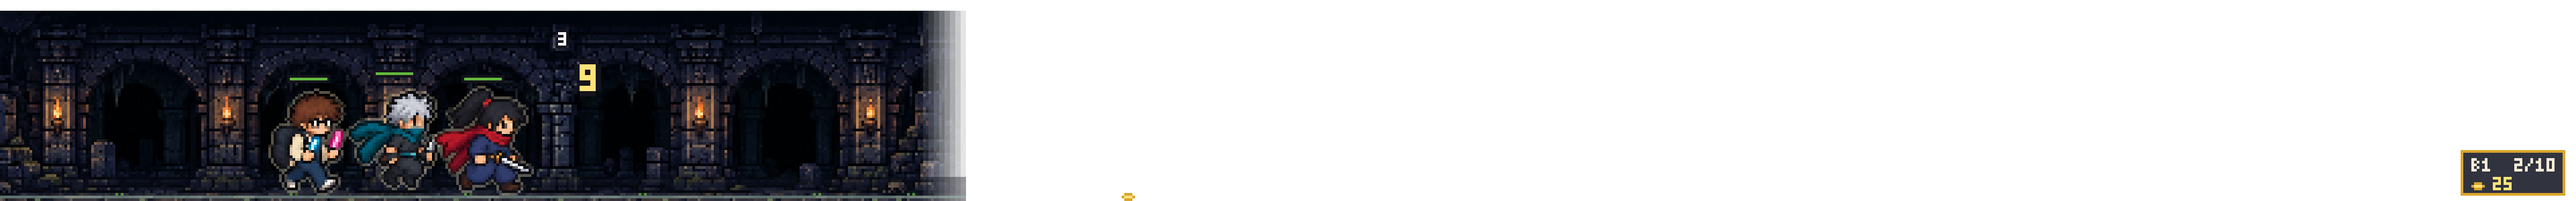
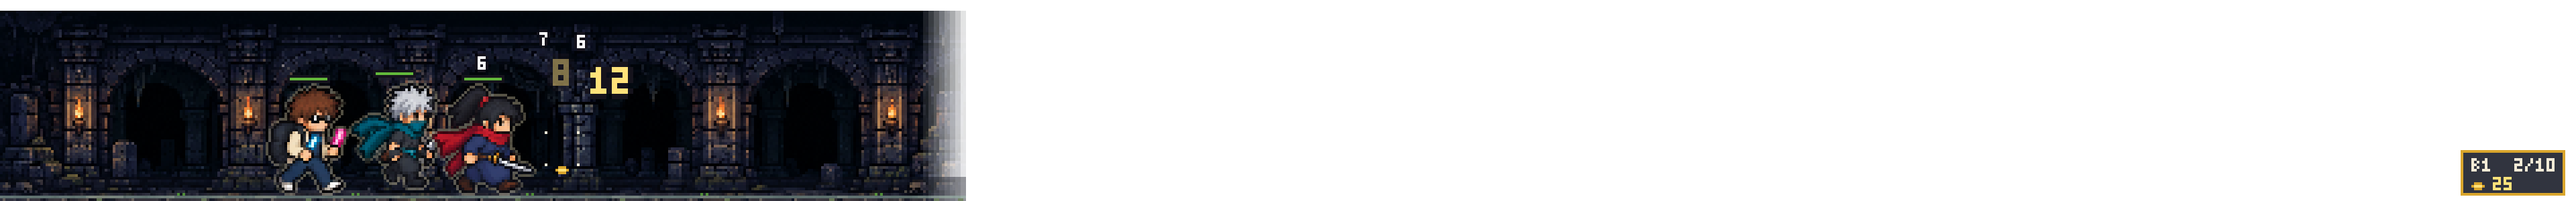
docs: record integrated approval and final v0.7.1 acceptance

Changed region(s): [[0.0, 0.12, 0.375, 1.0]]

diff --git a/docs/reviews/2026-10-30-review-resolution.md b/docs/reviews/2026-10-30-review-resolution.md
@@ -1,6 +1,6 @@
 # v0.7.1 統合レビュー指摘と対応
 
-対象製品コードは `533bc64`。この文書は初回指摘への対応表であり、最終統合承認ではない。作成時点では最終Windows実exeの30分受入と、Claude・Codexの最終総合判定が未完了。完了後の結果は末尾へ追記する。
+対象製品コードは `fd71433`。最終Windows実exeの30分受入はPASSし、[Claude最終総合判定](2026-10-30-claude-integrated-final.md) と [Codex最終統合判定](2026-10-30-codex-integrated-final.md) の両方がローカル製品範囲を総合承認した。以前の条件付き承認は最終reportで条件を満たした。レビュー担当の判定はコード・資料・実行証拠の読取であり、担当自身による実プレイやビルドの再実行とは区別する。
 
 原文は [Codex初回判定](2026-10-30-codex-integrated.md)、[Claude全体判定](2026-10-30-claude-integrated.md) に保持する。[Claude最初の実行](2026-10-30-claude-attempt.md) は利用上限による終了で、レビューも承認も成立していない。Claude全体判定は並行作業中のファイル状態に基づくため、その後の修正・検証と時点を区別する。
 
@@ -8,39 +8,54 @@
 
 | 初回指摘 | 対応・主な箇所 | 確認済みの証拠／残る確認 |
 |---|---|---|
-| Codex P1：書き出したJSONを復元できない | `shared/saveImport.ts` の共通検証・確認token、`panel/saveImport.ts` の選択と確認、preload/main IPC、`browserSaveRecovery.ts` の破損起動復旧を追加。1MiB上限、未来版保護、取消・競合・保存失敗で元データ維持、成功後は一時停止 | 製品Webの実ファイル選択で往復・取消・再読込・不正JSON・容量超過・破損起動・未来版拒否を確認。関連単体試験成功。Windowsの最終実exe IPC検査結果は待機中 |
+| Codex P1：書き出したJSONを復元できない | `shared/saveImport.ts` の共通検証・確認token、`panel/saveImport.ts` の選択と確認、preload/main IPC、`browserSaveRecovery.ts` の破損起動復旧を追加。1MiB上限、未来版保護、取消・競合・保存失敗で元データ維持、成功後は一時停止 | 製品Webの実ファイル選択で往復・取消・再読込・不正JSON・容量超過・破損起動・未来版拒否を確認。関連単体試験成功。Windows最終実exeも両phaseで実IPC往復・一時停止・分時計保持・取消/不正時の保存不変がPASS |
 | Codex P2：READMEが旧タイトル・旧言語ボタンの画像を案内 | READMEから旧画面への案内を削除 | 現行READMEの参照確認。旧画像を現行画面の証拠へ読み替えない |
-| Claude P0-1：2倍速後の配布物・実exe受入がない | 最終ソースからWindows/Webを再buildし、配布検査を実行。自己展開portableの初回・再起動を検査 | 配布検査116ファイル成功。下記hashのportable起動2回成功。最終win-unpackedの30分受入・IPC往復・終了後の子プロセス確認は継続中。P0全体の解消はまだ宣言しない |
-| Claude P1-1：速度変更後の全体回帰記録がない | 時計・描画・表示秒数・進行測定を共通速度へ統一し、型/lint・全テスト・Web/Windows buildを実施 | 53ファイル522テスト、型検査、lint成功。その後の製品変更はスマホ通知位置のCSSのみで、実表示と再buildを確認 |
-| Claude P1-2：2倍速の数字・打撃・予兆が未観測 | `strip/scene.ts`、`actionPresentation.ts` で数字580/760ms、白フラッシュ65ms、局所停止45msの実時間を保持。強調間隔160ms以上。攻撃・歩行は2倍を維持。予兆の説明を実0.6/0.9/0.7秒に整合 | 最終製品Webを新規から実時間約11分でB12まで操作。B10再訪の実戦で通常/会心数字・動作・予兆を確認。中断表示は開発用固定イベントで別確認。375pxの通知重なりを修正・再確認。Windows最終連続受入は待機中 |
+| Claude P0-1：2倍速後の配布物・実exe受入がない | 最終ソースからWindows/Webを再buildし、配布検査を実行。自己展開portableの初回・再起動を検査 | 配布検査116ファイル成功。下記hashのportable起動2回成功。最終win-unpackedの30分受入・IPC往復・再起動・障害復帰がPASSし、残存子0。P0解消を両レビューが確認 |
+| Claude P1-1：速度変更後の全体回帰記録がない | 時計・描画・表示秒数・進行測定を共通速度へ統一。分時計保存と英語ドロップ修正も含め、型/lint・全テスト・Web/Windows buildを実施 | 53ファイル536テスト、型検査、lint、Web/Windows build、配布116ファイル検査成功 |
+| Claude P1-2：2倍速の数字・打撃・予兆が未観測 | `strip/scene.ts`、`actionPresentation.ts` で数字580/760ms、白フラッシュ65ms、局所停止45msの実時間を保持。強調間隔160ms以上。攻撃・歩行は2倍を維持。予兆の説明を実0.6/0.9/0.7秒に整合 | 倍速製品Webを新規から実時間約11分でB12まで操作。B10再訪の実戦で通常/会心数字・動作・予兆を確認。中断表示は開発用固定イベントで別確認。375pxの通知重なりを修正・再確認。追加更新後も同じ保存でB30の敗北→強化・隊列変更→B31進行を実操作。Windows最終連続受入もPASS |
 | Claude P1-3：Lv上限後の継続目標が弱い | `core/progress/abyss.ts` と既存ダンジョン画面へ深淵遠征録を追加。目標B100/250/500/1000、以降1000刻み。最高クリアと最新8節目に実出撃3人のLv・配分・装備名を保存 | 旧保存は記録なしで開始、過去編成を捏造しない。重複達成・予約編成除外・破損値拒否・保存/取込の試験成功。実コアで得たB100保存を実取込し、日英・1280/375pxで表示と再読込保持を確認。人間による4時間プレイの証拠ではない |
-| Claude P1-4：0.7.1の正本記録が古い | README、HANDOFF、`docs/GAME_SPEC.md`、`docs/TECH_SPEC.md`、`docs/VALIDATION.md` に速度・復元・遠征録・検証境界を記録 | 最新HANDOFFは検証中と明記。ゲーム仕様と技術仕様を分離。最終実exe・総合判定・後片付けの確定値は検査終了後に追記する |
-| Claude P2：地面がデスクトップ全幅を覆う | `strip/scene.ts` の地面を背景と同じ戦闘域に制限 | 描画修正・build済み。Windows最終表示の証拠は連続受入結果と併せて確定する |
+| Claude P1-4：0.7.1の正本記録が古い | README、HANDOFF、`docs/GAME_SPEC.md`、`docs/TECH_SPEC.md`、`docs/VALIDATION.md` に速度・復元・遠征録・検証境界を記録 | ゲーム仕様と技術仕様を分離。最終実exe・両レビューの承認・正確な実測時刻・後片付けの留保を本書に反映 |
+| Claude P2：地面がデスクトップ全幅を覆う | `strip/scene.ts` の地面を背景と同じ戦闘域に制限 | 描画修正・build済み。最終Windows受入の表示・正常終了を確認。全DPIの検証を意味しない |
 | Claude P2：処理遅延で毎分率が過大になり得る | `core/game.ts` の `accountElapsed` へ実時間・整数端数・分締めを共通化。main/Webとも処理上限を超えた戦闘は追いつかせず、実経過だけ集計する | 10秒停止×6回で両hostのplayMs60000、毎分記録1件、実獲得額と率の一致を試験。次50msは1tickのみ。小数開発倍率・60秒以上のスリープ・オフライン半率の既存試験も成功 |
+| 追加保存レビュー：短時間再起動で途中収入が1分へ過剰合算 | `rates.elapsedMs`を唯一の保存時計とし、Game側の分時計を廃止。経過不明の旧途中額は`legacyUnmeasuredGain`へ保管し、資産・EXP・確定履歴を保持。不正値・移行時の数値超過は拒否 | 30秒×10回の保存/取込/再起動で5分5件、率＝実総獲得/5。実HTTP/SQLiteでも別client復元・DB再起動後に途中時間・収入・旧未計測額が一致。サーバーrepoのソース変更なし |
+| 追加実UI確認：英語ドロップに日本語と改suffixが混在 | `shared/locales/en-game.ts`の通知テンプレートとsuffix解析を修正。閉じ括弧まで番号として取り込まない | 特上通知はバナー・浮動ラベルとも`Rare: Good Fortune Charm Mk II`。伝説通知、日本語復帰を含めて試験 |
 | Claude P2：取込報酬の計算時点が不明 | 確認画面を開く時点で計算する仕様と、旧ファイルへの置換後に報酬を受け取る説明を追加 | 同時刻に同じ旧JSONを繰り返し復元しても資産が重複加算されない単体試験。確認待ち時間まで加算するとは説明しない |
 | Claude P2：奥義の型・役割が偏る | 個別技能・3連携・中断・回復等の現行範囲を正直に示す。今回、17人全員の必須局面を新設したとは扱わない | 初期編成の3seed測定、実プレイでの編成交代は確認済み。全680通りの3人編成比較や全員が唯一必須となる局面の保証はない |
-| Claude P2：後片付けが残る | 使用中の検証資材と、既知の削除拒否対象を区別。最終検査の終了後に担当が使用状況と残存を確認する | 下記の既知拒否分は未削除。現時点で全後片付け済みとは記録しない |
+| Claude P2：後片付けが残る | 最終検査の正常終了と残存子0を確認。既知拒否と追加の検証用data/session削除拒否を明記 | 下記の既知拒否分は未削除。現時点で全後片付け済みとは記録しない |
 
 実操作の手順・観測値・証拠の区別は [統合検証記録](2026-10-30-integrated-validation.md) を正本とする。静的レビュー、実コアの高速計測、製品Webの実操作、Windows実exeの検査は相互の代用にしない。
 
-## 配布物と未完の最終検査
+## 配布物と最終検査
 
[2 lines of base64/hex data omitted]
 
-最終30分検査は `.dev-data/packaged-acceptance/2026-10-29T17-41-26-226Z-30692/` で継続中。起動時刻は2026-10-30 02:41:26 JST。検査完了前のため、例外数・実playMs・終了コード・再起動/IPC結果・残存子プロセスについて最終合格値は本書に記載しない。速度変更前の `2026-10-29T17-08-37-379Z-3960` は約134秒で検査者が中断したもので、合格実績として流用しない。
+最終30分検査は `.dev-data/packaged-acceptance/2026-10-29T18-18-00-322Z-27496/report.json` でPASS。全体ok:true/errors:[]、初回・再起動ともexit0、rendererErrors空、残存子0、debugger閉鎖。両phaseで実JSON IPC取込の一時停止・分時計保持、取消/不正/未来版時の保存不変、合成runtime障害からcheckpointへの明示復帰を確認した。意図的な不正JSON・未来版・合成障害のstderrログは残し、全ログを無条件にerror0とは扱わない。
+
+初回はB23・757撃破・ボス2・全滅0、保存playMs1,799,550。sample間の実時間は1,782,121ms、playMs増分1,782,100ms、差は−21ms（比0.9999882）。ISO時刻を直接Date.parseした値であり、先行のPowerShell変換によるミリ秒丸めを訂正した。毎分履歴10件、途中時計59,550msが再起動後にも継続し、分締め後7,300msとなることを確認。実行本体・asarのhashはmanifestと一致した。
+
+過去の検査結果は次のとおり区別する。
+
+- `17-08-37-379Z-3960` は速度変更指示で約134秒時点に検査者が中断したもの。合格ではない。
+- `17-41-26-226Z-30692` は30分走行後の取込比較でFAIL。短期の `18-12-54-468Z-32840/report.json` のbefore/afterで、値は同じだがoptionsのキー順だけが異なると確認した。
+- 検査側をJSON文字列比較から `isDeepStrictEqual` へ修正し、`18-13-44-887Z-15536` は初回/再起動/IPC/異常復帰/終了が短期PASS。確認条件を緩めず、取込前後のrates一致も検査する。失敗reportを合格へ改変しない。
+- 短期PASSは最終buildより前のwin-unpacked検査であり、現行buildの最終実IPC往復は `18-18-00-322Z-27496` のPASS結果で確定した。
+
+Claude最終コード判定で残っていた実機条件は上記reportで充足した。非阻害P2として、30分検査は実時刻との一致を自動判定せず、samplesの時刻とplayMsを別途比較する。分履歴は仕様上10件が上限。街ではplayMsが止まり、分時計は収入0で進むため街滞在後の平均は低下し得る。街の扱いはゲーム仕様に明記済み。
 
 ## 内容と外部サービスの境界
 
-通常・修羅の各100階は、3区域・12敵・3ボスを循環する装備探索であり、100階すべてに固有の地形・敵・物語を用意したゲームではない。2倍速の実コア測定では、選択を行う初期編成の3seedが約81〜86分で通常100、約243〜258分で深淵101へ進んだ。人間の満足度、全編成の難易度、数百時間の持続性を保証する値ではない。遠征録は編成と装備探索を振り返る具体目標であり、新ダンジョンや新敵を追加したものではない。装備記録は名前のsnapshotで、当時の乱数数値すべての再現機能ではない。
+通常・修羅の各100階は、3区域・12敵・3ボスを循環する装備探索であり、100階すべてに固有の地形・敵・物語を用意したゲームではない。2倍速の実コア測定では、選択を行う初期編成の3seedが約81〜86分で通常100、約243〜258分で深淵101へ進んだ。人間の満足度、全編成の難易度、数百時間の持続性を保証する値ではない。遠征録は編成と装備探索を振り返る具体目標であり、新ダンジョンや新敵を追加したものではない。装備記録は名前のsnapshotで、当時の乱数数値すべての再現機能ではない。深淵の反復と遠征録の表示場所は最終レビューでも非阻害P2として残る。
 
-Steam登録・契約・審査、実決済、実Steamマーケット、公開、署名等の外部手続きは利用者が除外した範囲。実接続・販売開始済みとは称さない。実スマホ、クリーンPC、遠隔クラウド運用も本検査の証明対象外。スマホ幅のブラウザー確認を実スマホOS上の受入に読み替えない。
+Steam登録・契約・審査、実決済、実Steamマーケット、公開、署名等の外部手続きは利用者が除外した範囲。実接続・販売開始済みとは称さない。実スマホ、クリーンPC、遠隔クラウド運用、通知領域の実操作、別DPI、実スリープも本検査の証明対象外。スマホ幅のブラウザー確認を実スマホOS上の受入に読み替えない。
 
 ## 後片付けの留保
 
 HANDOFFに記録済みの `.font-tools`、変換元TTF2本、`.dev-data/recovery-ui-2026-10-29` は自動承認レビューによる削除拒否で未削除。過去の `out`、`.dev-data/verification`、`.dev-data/preview`、`node_modules/.vite`、指定済み旧受入データ、`release/builder-debug.yml`、`build/icon.ico` 等の拒否履歴も、別手段で迂回しない。これらを容量回収済みと数えず、TTF等の未追跡素材を製品・コミットへ混入させない。
 
-作成時点で使用中の30分検査、確認用ブラウザー・サーバー、および旧配布物・中断試験資材の最終整理は親担当の終了時確認に残す。この文書作成では削除もプロセス終了も実施していない。
+親担当により、検証用IAB全タブの閉鎖・viewport指定の解除、4177/4178/5177/8787のlistener終了を確認済み。旧 `TaskbarHyakkiko-0.7.0-portable.exe` は新版確認後に削除し、120,845,801 bytesを解放した。実HTTP/SQLite検査の専用一時DBも削除済み。上記の既知拒否分は残置し、この容量回収には含めない。最終30分検査も終了し、観測子プロセスとTaskbarHyakkiko.exeの残存がないことを確認済み。この文書担当自身は削除もプロセス終了も実施していない。
 
-## 最終結果の追記欄
+今回追加で、最終native検査のdata/sessionと `.dev-data/portable-launch-0.7.1-final/session`、計15,620,511 bytesの削除が自動承認レビューに `blocked by policy` として拒否された。再試行せず未削除として残し、この分の容量回収は0。その他の原本save・log・reportも保持する。削除拒否は製品の合格と区別し、後片付けをすべて完了したとは称さない。
 
-未完。最終実exe report、対象hashとの対応、Claude/Codex最終判定、終了後のプロセスと許可範囲の後片付けを確認して追記する。
+## 最終結果
+
+`fd71433` と現行SHA256のローカル製品範囲は、最終実exe受入PASSおよびClaude・Codex両方の総合承認を得た。承認を妨げる既知の重大欠陥は残っていない。上記の外部除外範囲・非阻害P2・削除拒否による残置は、この承認によって解消済みへ読み替えない。

diff --git a/docs/VALIDATION.md b/docs/VALIDATION.md
@@ -1,20 +1,33 @@
 # ローカル検証記録
 
-## 0.7.1（2026-10-30、最終連続検査中）
+## 0.7.1（2026-10-30、最終実機検査PASS）
 
-製品コード `533bc64`。旧版の結果を今回の合格へ流用しない。[指摘対応](reviews/2026-10-30-review-resolution.md) と [実操作・測定記録](reviews/2026-10-30-integrated-validation.md) を参照。
+製品コード `fd71433`。[指摘対応](reviews/2026-10-30-review-resolution.md) と [実操作・測定記録](reviews/2026-10-30-integrated-validation.md) を参照。旧版や修正前の結果を今回の合格へ流用しない。
 
-- 型・lint・53ファイル522テスト成功。最後の製品差分はスマホ通知位置のCSSで、実表示とWindows/Web再buildを確認。配布116ファイル検査成功。
-- 共通速度2倍、実60秒で1200tick・playMs60000・毎分記録1件。数字580/760msの実可読時間を保つ。処理遅延の実経過を統計へ含め、スリープ放置報酬を二重化しない。
-- 製品Web新規実操作で約11分B12/ボス1/全滅0。実拾得装備の比較と装着、B10再訪戦闘、控えから力士への交代後の実戦成長を確認。
-- JSON復元は日英の確認・取消・正常復元・再読込、不正/容量超過/未来版拒否、破損起動復旧を製品Webの実ファイル選択で確認。深淵遠征録を日英375/1280pxで確認。固定演出と実コア由来の深淵保存は自然プレイと区別する。
[1 lines of base64/hex data omitted]
+| 対象 | 確認した結果 |
+|---|---|
+| 型・lint・単体 | 53ファイル536テスト、typecheck/lint成功。2倍速、分途中の保存時計、旧未計測収入の明示移行、取込、描画、翻訳を含む |
+| build・配布 | Windows/Web build成功、release-check116ファイルPASS。未署名。開発用QAは製品に含めない |
+| 実時間集計 | 両host実60秒1200tick/playMs60000/1分履歴1件、30秒×10回の保存・再起動・取込で5分5件と実総獲得/5。分時計を保存して過大率を防ぐ |
+| 実Web操作 | 新規B1から装備比較装着、控えEXPなし/出撃成長、B10再訪、B30の敗北後の道場・隊列変更でB31へ。日英のJSON確認/取消/復元/不正・容量超過・未来版拒否、破損起動復旧、深淵遠征録375/1280pxを確認 |
+| 保存API | 実HTTP/SQLiteで部分時間・収入・旧未計測集計を別clientへ復元し、DB再起動後も一致。競合/未来版/別account分離PASS、専用DB削除済み。serverソース変更なし |
+| 自己展開portable | 最新hashで初回・再起動ともexit0、stderr空。playMs0→14950→29950、17人/v3。`.dev-data/portable-launch-0.7.1-final/report.json` |
 
-最終30分win-unpacked検査は `.dev-data/packaged-acceptance/2026-10-29T17-41-26-226Z-30692/` で実行中。Windows JSON preload/main IPC往復・取消/不正時保存不変・runtime障害後の明示復帰・再起動・終了後の子プロセスまで含む。完了後のreportで最終結果を記録する。`docs/images/play-panel.png`・`play-panel-en.png`・`play-strip.png` はこの版の実exe画面。
[1 lines of base64/hex data omitted]
 
-旧0.7.0 portableは新版の自己展開検査後に実パス・非リンク・非使用を確認して削除し、120,845,801 bytesを解放。削除後の空き454,240,628,736 bytes。既知の自動承認レビューによる削除拒否分は再試行せず未削除。使用中の検証プロセスとブラウザーは終了時に確認する。
+初回はB23・757撃破・ボス2・全滅0、playMs1,799,550。最初から最後のsample間で実1,782,121ms、playMs増分1,782,100ms（比0.9999882、非同期取得の差−21ms）。JSONのISO時刻を直接Date.parseして算出した。先行のPowerShell日付→文字列変換ではミリ秒を落としていたため、精密値へ訂正した。毎分履歴は仕様上の上限10件で、30件を保持する設計ではない。初回保存の途中時計59,550msは再起動後にも継続し、街での待機を経て7,300ms・履歴10件になった。初回/再起動の両方で実JSON IPC取込の一時停止・部分時計保持、取消/不正/未来版で保存不変、合成runtime障害時の保存拒否とチェックポイントへ明示復帰がPASS。
 
-Steam・実決済・公開・署名・実スマホ・クリーンPC・遠隔クラウド運用は今回の合格範囲に含めない。
+親子合計working setは876.4→654.1MiB、private bytesは868.3→472.4MiB、観測1,782秒でCPU累積差401.2秒。共有ページの重複を含む測定であり、全PCでの性能や無期限の漏れなしを保証しない。終了後にTaskbarHyakkiko.exeが残っていないことも別途確認した。
+
+前の30分 `17-41-26-226Z-30692` は最後の取込比較でFAIL。短期 `18-12-54-468Z-32840` のbefore/afterでoptionsのキー順だけが相違と確認し、検査側をJSON文字列比較から厳密深比較へ変更した。同じ条件の短期 `18-13-44-887Z-15536` はPASS。生の失敗記録を変更せず、最新版の30分合格として扱わない。
+
+最終実機結果を読んだ [Claude最終原文](reviews/2026-10-30-claude-integrated-final.md) と [Codex最終判定](reviews/2026-10-30-codex-integrated-final.md) の両方が、`fd71433`のローカル製品範囲を総合承認。条件付き段階からの残条件を解除した。Claudeが指摘した精密時刻と確定記録の更新漏れは反映済み。両担当の静的評価・親の実操作・生の実exe証拠を区別する。
+
+旧0.7.0 portableを新配布の確認後に実パス・非リンク・非使用確認して削除し、120,845,801 bytesを解放。削除後空き454,240,628,736 bytes。IAB全タブとviewport指定、4177/4178/5177/8787 listenerを終了確認済み。既知の自動承認レビューによる削除拒否分は再試行せず未削除。最終試験自身も正常終了し、観測子プロセスが残っていない。
+
+追加で、最終native検証の`data/session`（8,382,493 bytes）と`portable-launch-0.7.1-final/session`（7,238,018 bytes）の削除も自動承認レビューに拒否された。事前に絶対パス・リンクなし・ゲームプロセス終了を確認したが、理由は`blocked by policy`のみ。合計15,620,511 bytesは未削除で、別手段で再試行しない。削除前空き454,281,629,696 bytesを回収後の数値と偽らない。
+
+Steam・実決済・公開・署名・実スマホ・クリーンPC・遠隔クラウド運用は今回の合格範囲に含めない。人間の満足度、全680編成の難易度、無期限の安定性を保証する試験ではない。
 
 ## 0.7.0（2026-10-29）
 

diff --git a/HANDOFF.md b/HANDOFF.md
@@ -1,21 +1,24 @@
 # 引き継ぎ
 
-## v0.7.1 統合承認と追加2倍速（2026-10-30、検証中）
+## v0.7.1 統合承認と追加2倍速（2026-10-30、承認済み）
 
-最新指示は「ClaudeとCodexの統合承認まで」「現在からさらにゲーム速度2倍」。この節を旧版より優先。最終統合承認はまだ未完了。
+最新指示は「ClaudeとCodexの統合承認まで」「現在からさらにゲーム速度2倍」。製品コードは `fd71433`。この節を旧版より優先。外部のSteam・実決済・公開・署名等は依頼範囲外であり、接続済みとは説明しない。
 
-03:15 JST追記：下記533bc64時点の配布hashと30分検証は追加修正前の証拠。短時間再起動で毎分率が過大になる欠陥を発見し、`rates.elapsedMs`を永続化。旧途中額は`legacyUnmeasuredGain`へ明示保管、資産・確定履歴を保持。英語の特上ドロップ文と改suffix解析も修正。追加修正後の型/lint・53ファイル536テスト・Web build、実HTTP/SQLiteで新集計fieldの別client復元とDB再起動がPASS。
+- Windows/Web/描画の共通速度を2倍に統一。数字の実可読時間を維持し、プレイ時間・毎分率・放置報酬は実時間。日英の秒数も同じ正本から生成。
+- JSON復元の実導線、確認token・保存失敗時の保護・一時停止復帰、ブラウザー破損起動の復元を追加。正常設定を保持、未来版を拒否。
+- 深淵の目標B100/250/500/1000/以降1000刻みと、実出撃3人の配分・装備名を残す遠征録を追加。旧記録を捏造しない。
+- 短時間再起動で毎分収入が過大になる実在の欠陥を修正。`rates.elapsedMs`を唯一の保存時計とし、時間不明の旧途中額は`legacyUnmeasuredGain`へ明示保管。資産・EXP・確定履歴を保持し、不正値を隠さない。
+- 英語の特上ドロップ文と改suffixの解析漏れを修正。スマホの技能通知と操作ボタンの重なり、地面の全幅表示、遅延時の実時間欠落も修正。
+- 型/lint・53ファイル536テスト、Windows/Web build、配布116ファイル検査成功。実HTTP/SQLiteで部分時間・収入の別client復元とDB再起動もPASS。サーバーrepoは変更なし。
+- Codex内IABで新規開始→装備比較装着→交代/控えEXP→B30で敗北→道場/隊列調整→B31まで実操作。日英の復元と深淵遠征録を375/1280pxでも確認。全キャラの長時間満足度や実スマホ受入とは区別する。
[1 lines of base64/hex data omitted]
+- 最終30分と再起動は `.dev-data/packaged-acceptance/2026-10-29T18-18-00-322Z-27496/report.json` でPASS。B23/757撃破/ボス2/全滅0、両phase exit0/描画例外0/残存子0。実1,782,121msに対してplayMs増分1,782,100ms（非同期取得差−21ms）。直近10分履歴、分途中59,550msの再起動継続、実IPC取込/保存不変/異常復帰/再起動/子終了を確認。
+- 実Claude CLIと独立Codex担当の両方が、`fd71433`のローカル製品範囲を最終総合承認。原文は `2026-10-30-claude-integrated-final.md` と `2026-10-30-codex-integrated-final.md`。初回や限定レビューを全体承認へ読み替えたものではない。実スマホ/クリーンPC/通知領域実操作/DPI/スリープ/遠隔運用と外部手続きはこの承認の証明対象外。
+- 旧30分run `17-41-26-226Z-30692` はimport比較でFAIL。短期再現でoptionsのキー順だけの差と確認。検査を厳密深比較へ直し、`18-13-44-887Z-15536` は全経路PASS。失敗reportは改変せず残す。
+- 検証用IAB全タブとviewport指定、4177/4178/5177/8787 listenerは終了確認済み。旧0.7.0 portableは新版確認後に削除し120,845,801 bytes解放。既知の自動承認レビュー拒否対象（.font-tools、TTF2本、旧検証資材等）は再試行せず未削除、製品/コミットから除外。
+- 最終nativeの`data/session`と`portable-launch-0.7.1-final/session`も、非使用/非リンク/範囲を確認後の削除が自動承認レビューに`blocked by policy`で拒否された。計15,620,511 bytesを残置し、別手段では再試行しない。生セーブ・ログ・report・現行配布物は保護している。
 
-旧30分run `17-41-26-226Z-30692` は最後のimport比較でFAIL。短期再現 `18-12-54-468Z-32840` で内容は一致し、optionsのプロパティ順だけが相違すると確認。検査のJSON文字列比較を意味的な厳密深比較へ変更し、`18-13-44-887Z-15536` は初回/再起動/実IPC/異常停止復帰/子終了すべてPASS。失敗を製品の合格へ読み替えない。修正後の最終dist→release-check→30分を改めて実行中。
-
-- Codex初回P1（JSON復元導線なし）を修正。共通検証・token確認・原子的保存・paused復帰、正常設定とブラウザー破損起動の両経路。実IAB往復・取消・不正/容量超過/未来版拒否・破損復旧を確認。P2のREADME旧画像参照も削除。
-- GAME_SPEED=2を共通正本にWindows/Web/描画を同期。playMs/毎分率/offlineは実時間。日英の効果時間は戦闘paramsから生成、攻撃間隔/CDは同じtick切上げで表示。旧保存時間は変換しない。
-- 新規実操作・3seed通常100→修羅100→深淵101の測定は `docs/reviews/2026-10-30-integrated-validation.md`。通常100は約81〜86分相当。静的review・実コア・実UI・実exeを区別する。
-- 最終型/lint/53ファイル522テスト成功。dist/Web/release-check116ファイル成功。native30分を `.dev-data/packaged-acceptance/2026-10-29T17-41-26-226Z-30692/` で実行中。新report完了前に旧PASSを流用しない。
-- Claude初回は利用上限、02:20JST以降の実CLI全体レビューは証拠不足と深淵の継続目標で保留。その後、深淵の目標/遠征録、数字の可読時間、地面の範囲、処理遅延時の実時間集計を修正。Codex再確認は新たな重大指摘なし、最終実機結果待ち。最終Claude再判定も未完了。
[1 lines of base64/hex data omitted]
-- `2026-10-29T17-08-37-379Z-3960` の実exe試験は速度変更指示で約134秒時点に検査者が中断。残存ゲームプロセスなし確認、合格ではない。
-- 検証用4177preview/4178破損fixture/5177固定演出とIAB tab7/8/9を使用中。終了時に片付ける。既知の削除拒否対象は再試行しない。
+詳細と初回指摘の対応は [統合検証](docs/reviews/2026-10-30-integrated-validation.md)、[対応表](docs/reviews/2026-10-30-review-resolution.md)、[VALIDATION](docs/VALIDATION.md)。以後の追加要望はこの承認済み版を基準とし、新しい差分に必要な検証を行う。
 
 ## v0.7.0 製品品質の改善（2026-10-29）
 

diff --git a/docs/reviews/2026-10-30-claude-final-code.md b/docs/reviews/2026-10-30-claude-final-code.md
@@ -1,0 +1,47 @@
+# v0.7.1（fd71433）総合再判定（読み取り専用）
+
+## 判定：条件付き承認（前回と同じ）
+今回の修正差分に、承認を止める新しい問題は見つかりませんでした。残る条件は、実行中の30分検査 `.dev-data/packaged-acceptance/2026-10-29T18-18-00-322Z-27496/` の結果だけです。未完了なので合格とは扱いません。
+
+## 証拠の区別
+- **私が今回読んだもの（静的読取のみ、実行・ビルドはしていません）**
+  - 文書：AGENTS、HANDOFF、前回の再レビュー、integrated-validation の最終節、GAME_SPEC:177、TECH_SPEC:45-47
+  - コード：`game.ts`、`profile.ts`、`loop.ts`、`platform.ts`、`timing.test.ts`、`en-game.ts`、`items.ts:30`、`i18n.test.ts`、`packaged-check.mjs`
+  - 生成物：`release-manifest.json`、final portable の report、短期検査 18-13-44 の report
+- **親担当の実行証拠（自己申告で、私は再実行していません）**
+  - 536テスト、型検査、lint、Web build
+  - cloud-check の実HTTP/SQLite、別クライアントでの復元、DB再起動
+  - 旧30分検査の import 比較 FAIL の原因が options の順序だけだったという確認
+  - 製品Webでの継続プレイ
+  - 「旧方式の分時計では率が6倍に膨らむ」という実際の再現
+
+## 今回の差分の確認
+| 項目 | 静的な根拠 | 評価 |
+|---|---|---|
+| 分時計を1つにまとめた | `game.ts:75-76` で `rates.elapsedMs` だけを進め、Game 側の別時計はなし。`createGame` は時計を0に戻さない | 可 |
+| 旧セーブの移行 | `profile.ts:222-227`：`elapsedMs` が無い場合だけ、`current` を `legacyUnmeasuredGain` へ移して0から測り直す。`minutes`、所持金、EXP は変更しない | 可。推定で時間を補わない |
+| 壊れた値の拒否 | `profile.ts:220,226,229`：範囲外、型違い、上限超過はエラー。初期値への置き換えはしない | 可。AGENTS:19 に適合 |
+| テスト | `timing.test.ts:6-20`：30秒×10回を `validateProfile` とクラウド復元で交互に繰り返し、5件、playMs 300000、合計一致、率＝総額/5 を確認 | 可。欠陥の再現条件を直接押さえている |
+| 英語のドロップ文 | `en-game.ts:1634-1635,1657`：改の番号を漢数字か数字に限定し、`」` を巻き込まない。`i18n.test.ts:40-48` はバナー・浮動ラベル・伝説通知・日本語への復帰を確認 | 可。10以上の番号は `Mk 10` になり、`items.ts:30` と矛盾しない |
+| 検査ツールの変更 | `packaged-check.mjs:227,229,266`：深い等価比較に変えても比べる値は同じ。`:229` で import 前後の `rates` 一致、`:291` で `elapsedMs` が保存されたことを確認するチェックが新たに加わっている | 可。検査は弱まっていない |
+| 配布物 | manifest（checkedAt 18:18:00.222Z）の portable の SHA256 が `4024…c8ac` で、final portable の report と一致。初回・再起動とも exit0、stderr は空 | 可 |
+
+前回評価した領域（体験・テンポ、装備、役割・終盤、演出、日英、保存、保守性）は、今回の差分で悪くなっていません。前回の P2（深淵の中身は繰り返し、遠征録の表示場所、範囲外の項目）はそのまま残ります。
+
+## 新しい指摘（いずれも P2、承認は止めません）
+1. **30分検査は実時間との一致を自動では判定しません。** `packaged-check.mjs:185` は playMs を記録するだけです。また `rateMinutes=10` のため、毎分記録の件数は30分後には10件で頭打ちになります。判定の際は report の samples の時刻と playMs を手で比べる必要があります。
+2. **街にいる間も分時計が進みます。** `accountElapsed` では playMs だけが街で止まり、`rates.elapsedMs` は進み続けます。そのため街での待機分が収入0の1分として平均に入り、その後の放置報酬が低めに出ます。過大にはならない側なので欠陥ではありませんが、仕様として明記するか、扱いを決めておくべきです。
+3. **文書が古いままです。** HANDOFF:16 と integrated-validation:77 は、まだ `3643…` を「最終portable」としています。新しい hash `4024…` は追跡中の文書にはまだありません。最終記録のときに差し替えが必要です。
+4. **短期 PASS は最終 build より前のものです。** 18-13-44 の短期 PASS は manifest の時刻 18:18 より前に win-unpacked で実行されています。最終 build での実IPC往復を示すのは、今回の30分検査だけです。
+
+## 承認へ移す条件（18-18-00 の report.json）
+- `ok:true`、`errors:[]`、初回・再起動の両 phase が exit0
+- `rendererErrors` が0件
+- 初回 phase の samples で、playMs の増え方が実時間とほぼ一致する
+- 最終的な `rates.minutes` が10件
+- `fileImport.earningsIntervalPreserved` と `roundtripPaused` が true
+- 異常停止から明示的に復帰した状態がチェックポイントと一致する
+- 残っている子プロセスが0（`remainingObservedProcesses` が空）
+- 結果と `4024…` の hash を VALIDATION・HANDOFF・resolution に記録し、指摘3を直す
+
+FAIL の場合、または途中で止まった場合は保留に戻します。FAIL の原因が検査ツール側だったとしても、最終 build で取り直すまでは合格扱いにしません。

diff --git a/docs/reviews/2026-10-30-claude-integrated-final.md b/docs/reviews/2026-10-30-claude-integrated-final.md
@@ -1,0 +1,35 @@
+# 最終総合判定：承認（fd71433）
+
+前回の残条件は最終Windows実exe（ネイティブ）の30分検査の結果だけでした。report.json の値が条件をすべて満たし、manifest と final portable の report とも食い違いはありません。承認を止める問題は見つかりませんでした。ただし、検証文書の数値1か所と記録の更新漏れ2件は直す必要があります（下記の「残る非阻害事項」）。
+
+## 私が自分で読んで確認したもの（静的読取のみ・再実行なし）
+**30分検査の report**（`.dev-data/packaged-acceptance/2026-10-29T18-18-00-322Z-27496/report.json`）
+- 全体：`ok:true`、`errors:[]`
+- 実行本体とasarのSHA256は manifest と一致（`7e58…a39a` / `59fd…a3ad3`）
+- 初回・再起動の両phase：exit 0（signal null）、`rendererErrors:[]`（指定の「renderErrors」は実際のキー名が `rendererErrors`）、`remainingObservedProcesses:[]`、`cleanedRemaining:[]`、`debuggerClosed:true`
+- 両phaseの取込確認：`fileImport` は real-native-ipc で、`roundtripPaused`、`earningsIntervalPreserved`、`cancelledAndInvalidUnchanged` がすべてtrue。取消・不正・未来版はすべて原因付きで拒否
+- 両phaseの異常復帰：`runtimeRecovery` で `viewMatchesCheckpoint`、`reloadPaused`、`stripReloadPaused`、`saveUnchanged` がtrue
+- 初回の結果：B23、757撃破、ボス2、全滅0、保存playMs 1,799,550
+- 毎分の収入記録（`minutes`）は10件で頭打ち
+- 分途中の継続：初回は current 202/184、elapsedMs 59,550。再起動後は分が締まって202/184が履歴の末尾に入り、current 0/0、elapsedMs 7,300（街にいる間の時間）。分時計が再起動をまたいで続いていることと合います
+- `stderrTail` にある例外は、意図的に入れた不正JSON・未来版・合成障害のログだけです
+
+**配布物と portable**
+- manifest：portable は 120,852,608 bytes、SHA256 `4024…c8ac`
+- `portable-launch-0.7.1-final/report.json`：同じhashで、初回・再起動ともexit 0、stderr空、playMs 0→14,950→29,950、17人、v3
+- 生セーブ：`save.json` は playMs 29,950、elapsedMs 29,950、current 65小判/73EXP、legacyUnmeasuredGain null
+- `GAME_SPEC.md:179` に、街にいる時間を収入0として平均に入れることが明記済み。前回の指摘2は解消しています
+
+## 親担当の実行証拠（文書の記載のみ・私は再実行していません）
+- 536テスト、typecheck、lint、Web/Windows build、release-check 116ファイル
+- 実IABでの復元、日英375/1280pxの遠征録、新規47分のB31到達（B30敗北→道場・隊列調整）
+- 実HTTP/SQLiteでの新rates往復とDB再起動
+- 署名がNotSignedであること（manifest自体は `signature:"not-verified"` です）
+- IAB全タブ・viewportと4177/4178/5177/8787 listenerの終了、ゲーム子プロセスの終了
+
+## 残る非阻害事項
+1. **時刻差の数値が文書と違います。** 初回samplesは 18:18:05.709Z→18:47:47.830Z で、実際の時刻差は**1,782,121ms**です。playMs差は 4,650→1,786,750 の**1,782,100ms**なので、差は約21ms（比0.99999）です。`VALIDATION.md:18` と今回の依頼にある「1,782,000ms／100ms差／比1.000056」は正確ではありません。実際の一致はむしろ記載より良いですが、文書は直すべきです。
+2. **合格がまだ記録されていない文書が2つあります。** `HANDOFF.md:15-16` と `review-resolution.md:3,32,39` が「実行中・結果待ち」のままです。どちらも承認後に確定すると明記されているので矛盾ではありませんが、この承認を反映する必要があります。`integrated-validation.md:77` の旧hash `3643…` は、`:81` で流用しないと明記されているため問題ありません。
+3. **前回からのP2はそのまま残ります。** 深淵は内容の繰り返しであること（100階すべてが固有ではない）、遠征録の置き場所、30分検査が実時間との一致を自動判定しないこと。
+4. **今回の範囲外です。** Steam、実決済、公開、署名、実スマホ、クリーンPC、遠隔運用、通知領域の実操作、DPI、スリープ。全17人がそれぞれ必須になる局面、人間の満足度、無期限の安定性も保証しません。
+5. **既知の削除拒否分は未削除です。** `.font-tools`、TTF 2本などは容量回収済みとして扱いません。

diff --git a/docs/reviews/2026-10-30-integrated-validation.md b/docs/reviews/2026-10-30-integrated-validation.md
@@ -87,3 +87,17 @@
 英語の実ドロップ通知に `特上「金運招福守 Mk 弐」` の混在を発見。完全な通知テンプレートの不足と、改suffixの解析が閉じ括弧まで巻き込む点を修正。バナー・浮動ラベル双方で `Rare: Good Fortune Charm Mk II`、伝説通知と日本語復帰をテストした。
 
 追加修正後は型/lint・53ファイル536テスト・Web build成功。製品Webで更新前のB23・12,969小判・サムライ15/忍者15/力士13の保存を再読込し、英語・階層・資産・3人・一時停止を保持して継続した。更新前の実プレイは32分、1,216撃破、ボス10（B10周回を含む）、全滅0。Windows配布物は追加修正後に再buildして連続検査を取り直す。
+
+更新後も同じ検証保存で継続し、B30で2回全滅。ゲーム内小判で道場のHPをTier2・ATKをTier7にし、力士を先頭へ予約変更した後、B31へ進行した。停止時は実ゲーム表示47分・1,650撃破・ボス11・クリア40・全滅2、所持16,196小判/累計19,662。操作せず進むだけでなく、敗北→強化・隊列変更→再挑戦の流れを実UIで確認した。強化だけの因果を分離した比較実験ではない。自然発生のブラウザーruntime errorは観測なし。devログには17:06Zの意図的な不正JSON/容量超過検査の2件が残るため、全ログを無条件に「error0」とは記載しない。
+
+最終分時計は別repoの実HTTP/SQLiteでも確認。`tools/cloud-check.ts`で30秒途中の時間・収入・旧未計測収入を別clientへ保存/復元し、DB再起動後も完全一致。競合・未来版拒否・別account分離もPASS、専用一時DBは削除済み。serverソースに変更なし。
+
+実exe試験の失敗も記録する。`17-41-26-226Z-30692` は30分走行後のJSON取込比較でFAIL。短期の `18-12-54-468Z-32840/report.json` へbefore/afterを記録し、値は一致するがoptionsのキー順だけが異なると確認した。検査側のJSON文字列比較を`isDeepStrictEqual`へ変更し、同じ復元・一時停止条件を保ったまま `18-13-44-887Z-15536` の初回/再起動/IPC/異常復帰/終了がPASS。生の失敗reportを合格へ改変しない。
+
+## 最終確定
+
[1 lines of base64/hex data omitted]
+
+最終30分と再起動は `18-18-00-322Z-27496/report.json` でPASS。B23/757撃破/ボス2/全滅0、両phase exit0/renderer例外0/残存子0。実IPCで取込後一時停止・部分時計保持・取消/不正/未来版時の保存不変、合成障害後の明示復帰も成功。sample時刻をISOから直接読むと実1,782,121msに対してplayMs増分1,782,100ms、差−21ms。PowerShellの日付文字列化で失ったミリ秒を補正した確定値である。直近履歴は上限10件、部分時計は再起動後も継続。
+
+[Claude最終総合承認](2026-10-30-claude-integrated-final.md) と [Codex最終総合承認](2026-10-30-codex-integrated-final.md) が確定。詳細な実機指標・外部範囲・後片付け拒否は [VALIDATION](../VALIDATION.md) へ集約。IAB/検証server/ゲーム子は終了済み。未削除キャッシュを片付け済みとは扱わない。

diff --git a/docs/reviews/2026-10-30-codex-integrated-final.md b/docs/reviews/2026-10-30-codex-integrated-final.md
@@ -1,0 +1,13 @@
+# Codex 最終統合判定（2026-10-30）
+
+対象製品コード：`fd71433`。独立レビュー担当 `/root/integrated_codex` が、コード・仕様・親担当の実操作記録・最終実exe reportを読み取り専用で確認した最終回答を記録する。レビュー担当自身がWindows操作やビルドを再実行したという意味ではない。
+
+> **Codexとして、`fd71433` のローカル製品範囲を総合承認します。**
+>
+> コード、ゲーム仕様、実操作記録、最終Windows検査を確認しました。30分動作・再起動・JSON復元・収益時計保持・障害復帰が成功し、例外と残存子プロセスはありません。承認を妨げる既知の重大欠陥は残っていません。
+>
+> 記録上の軽微な訂正：実測時間差は1,782,121ms、プレイ時間増分は1,782,100msです。
+>
+> Steam等の外部手続き、実スマホ・クリーンPCは承認範囲外です。
+
[1 lines of base64/hex data omitted]
